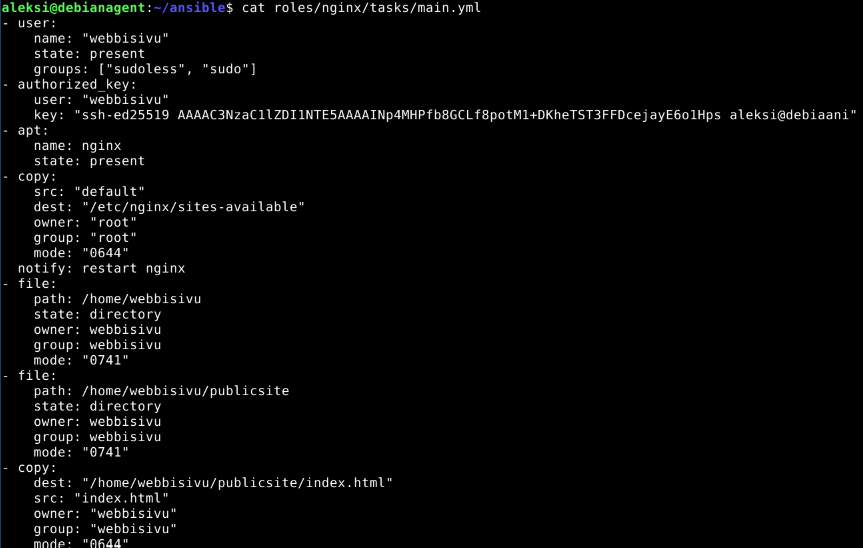
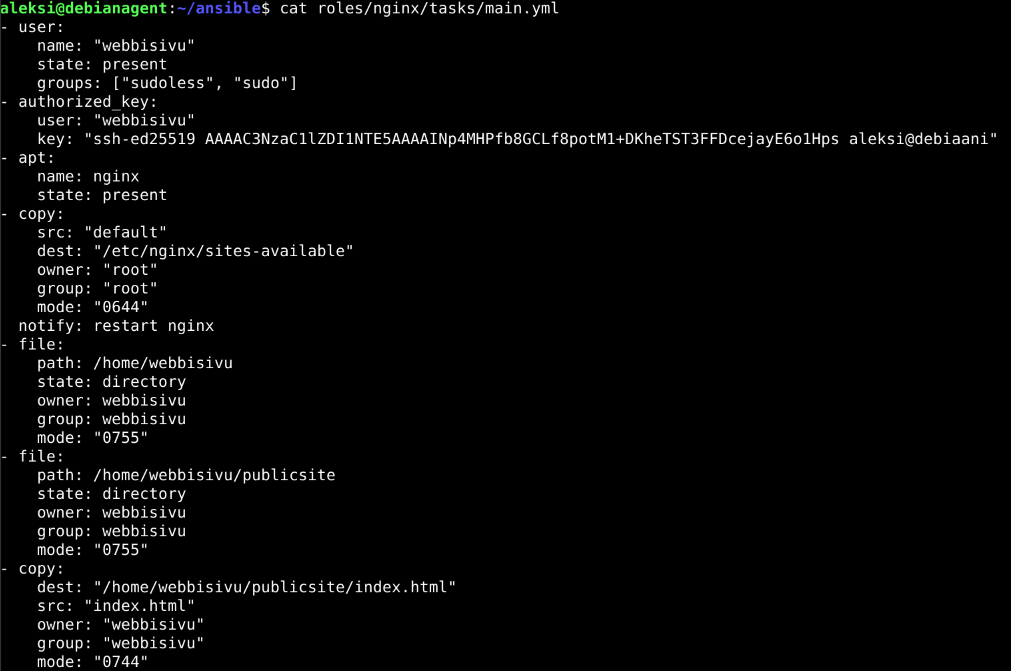
Week 3: Added text for tasks yml file

Changed region(s): [[0.0, 0.0, 0.9942, 1.0], [0.241, 0.0931, 0.3013, 0.1551]]

diff --git a/server-management/practices/third-week.html b/server-management/practices/third-week.html
@@ -68,12 +68,15 @@
         </h4>
         <ul>
           <li>Handlerit ajetaan vain jos jotain muutoksia tapahtuu</li>
-          <li>Yleensä käytetään palvelujen/demonien uudelleen käynnistämiseen</li>
+          <li>
+            Yleensä käytetään palvelujen/demonien uudelleen käynnistämiseen
+          </li>
           <li>Käytetään <i>notify</i>-avainsanan kanssa</li>
           <li><i>notify</i> ottaa listan handlerien nimiä</li>
           <li>
-            Handlerit suoritetaan siinä järjestyksessä kuin ne ovat handlers tiedostossa,
-            ei siinä järjestyksessä kuin ne ovat listattuna <i>notify</i> komennossa
+            Handlerit suoritetaan siinä järjestyksessä kuin ne ovat handlers
+            tiedostossa, ei siinä järjestyksessä kuin ne ovat listattuna
+            <i>notify</i> komennossa
           </li>
         </ul>
 
@@ -81,11 +84,16 @@
         <ul>
           <li><i>service</i> kontrolloi palveluja etä koneilla</li>
           <li>Toimii välittäjänä palvelu manager moduulille</li>
-          <li>Enabled: Pitääkö palvelun käynnistyä järjestelmän käynnistyksen yhteydessä</li>
+          <li>
+            Enabled: Pitääkö palvelun käynnistyä järjestelmän käynnistyksen
+            yhteydessä
+          </li>
           <li>Name: Palvelun nimi</li>
           <li>
-            State: Jompi kumpi, state tai enabled, on pakollinen. Started, stopped ajaa palvelun vain jos on pakko. 
-            Restarted aina uudelleenkäynnistää palvelun. Reloaded aina lataa uudestaan palvelun.
+            State: Jompi kumpi, state tai enabled, on pakollinen. Started,
+            stopped ajaa palvelun vain jos on pakko. Restarted aina
+            uudelleenkäynnistää palvelun. Reloaded aina lataa uudestaan
+            palvelun.
           </li>
         </ul>
 
@@ -235,6 +243,19 @@
         />
         <p>Handler tiedosto käynnistää nginx:n uudelleen.</p>
         <img src="../images/third/autoginx-handler.png" alt="Handler file" />
+        <p>
+          Tasks tiedosto toimii ajotiedostona. Tein <i>webbisivu</i>-käyttäjän,
+          jonka verkkosivuja näytetään nginx:llä. Apt:in avulla varmistetaan
+          että nginx on olemassa. Kopioidaan metdilla <i>copy</i> nginx:n
+          konfiguraatio tiedosto oikeaan kansioon ja uudelleen käynnistetään
+          nginx, koska konfiguraatiotiedostoa on muutettu. Sitten annettaan
+          oikeuksia kansioille ja tiedostoille. Kansioille annetaan oikeudet
+          oikeudet <i>0755</i>, käyttäjä voi kirjoittaa, muokata sekä suorittaa
+          kansioiden sisältöä, ryhmä ja muut voivat lukea ja suorittaa.
+          Verkkosivu tiedostoon käyttäjällä on samat oikeudet kuin kansioihin,
+          mutta ryhmä ja muut voivat vain lukea tiedostoa.
+        </p>
+        <img src="../images/third/autoginx-tasks-file.png" alt="Tasks file" />
         <p>
           Ajoin ansiblen nyt komennolla
           <code>ansible-playbook site.yml -K</code>. Törmään kuitenkin
